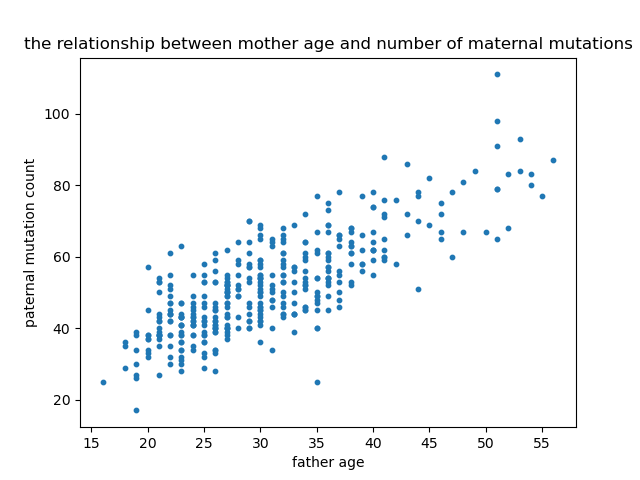
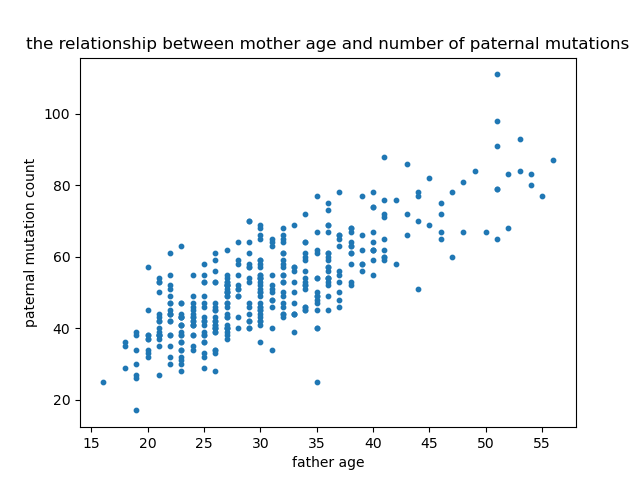
try5

Changed region(s): [[0.0312, 0.0625, 1.0, 0.125]]

diff --git a/day5-lunch/linear_regression.py b/day5-lunch/linear_regression.py
@@ -22,7 +22,7 @@ fig, ax  = plt.subplots()
 ax.scatter(df["f_age"], df["f_count"],s=10)
 ax.set_xlabel("father age")
 ax.set_ylabel("paternal mutation count")
-ax.title.set_text("the relationship between mother age and number of maternal mutations")
+ax.title.set_text("the relationship between mother age and number of paternal mutations")
 plt.savefig("ex2_b.png")
 plt.close(fig)
 
@@ -38,7 +38,7 @@ ax.hist(df["m_count"], alpha = 0.5, label = "maternal")
 ax.set_xlabel("Number of mutations")
 ax.set_ylabel("Number of individuals")
 ax.legend()
-ax.title.set_text("number of maternal and paternal mutations in individuals ")
+ax.title.set_text("number of maternal and maternal mutations in individuals ")
 plt.savefig("ex2_c.png")
 
 #print(stats.ttest_ind(df["m_count"],df["f_count"]))
